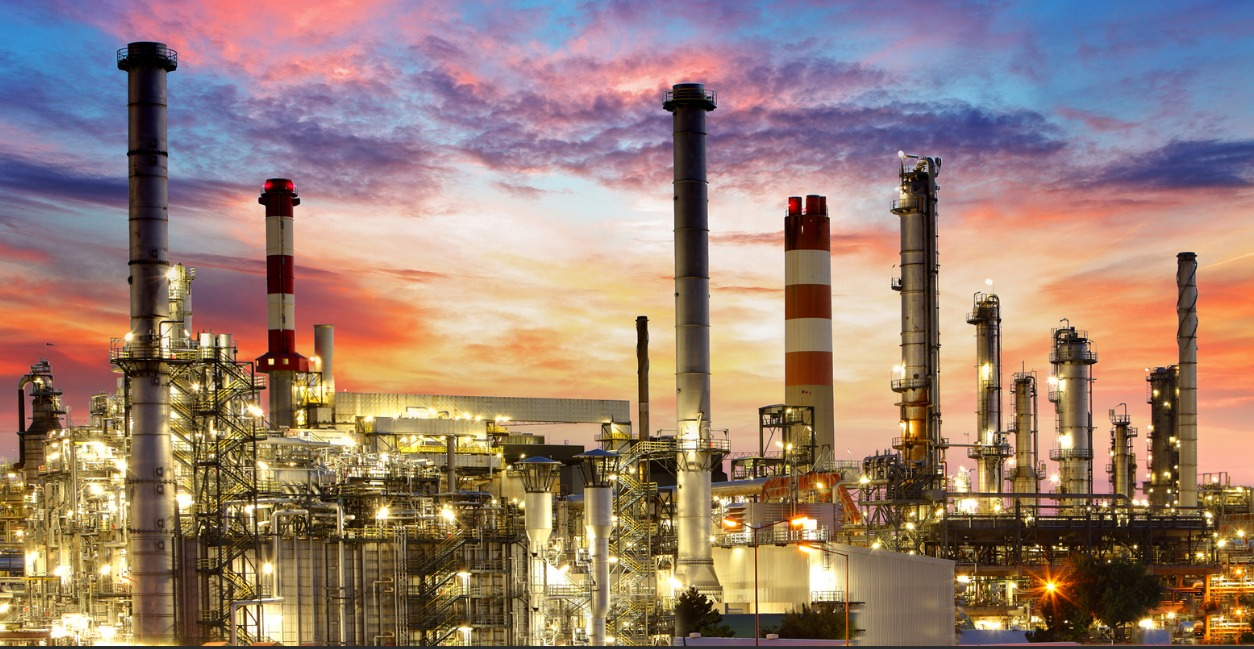
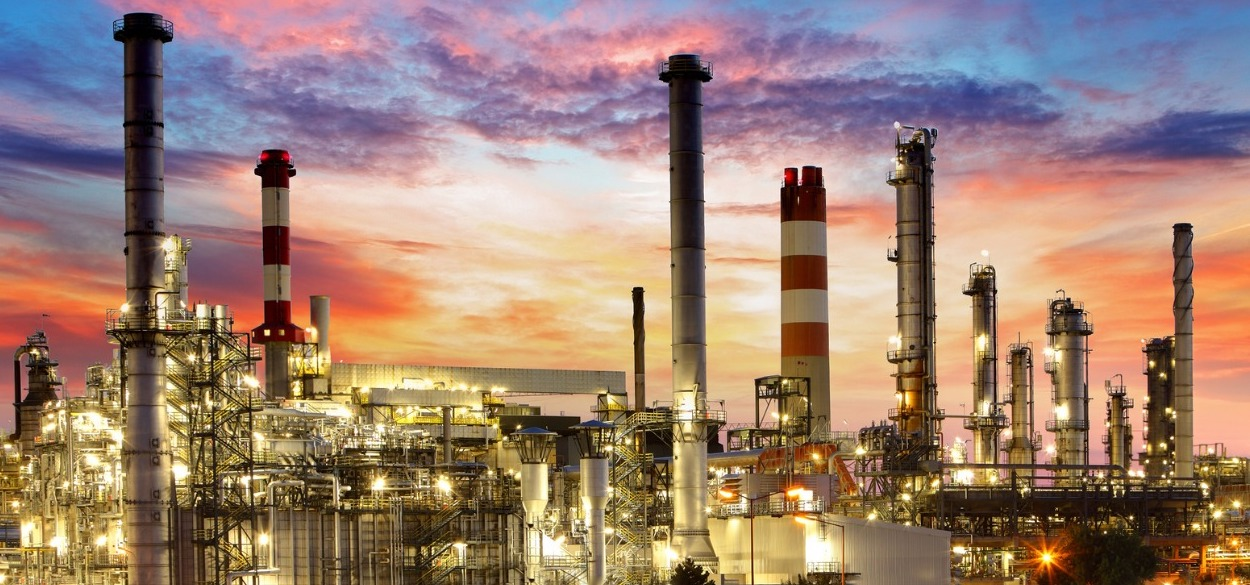
carousel modified

diff --git a/templates/index.html b/templates/index.html
@@ -163,10 +163,10 @@
               <img src="static/img/panorama-1.jpg" style=" width: 100vw;" class="d-block img-fluid" alt="...">
             </div>
             <div class="carousel-item" data-bs-interval="3000">
-              <img src="static/img/Image - 14.jpeg" style=" width: 100vw;" class="d-block img-fluid" alt="...">
+              <img src="static/img/wp2890794.jpg" style=" width: 100vw;" class="d-block img-fluid" alt="...">
             </div>
             <div class="carousel-item" data-bs-interval="3000">
-              <img src="static/img/offshore-drilling.webp" style=" width: 100vw;" class="d-block img-fluid" alt="...">
+              <img src="static/img/Image - 11.jpeg" style=" width: 100vw;" class="d-block img-fluid" alt="...">
             </div>
           </div>
         </div>
